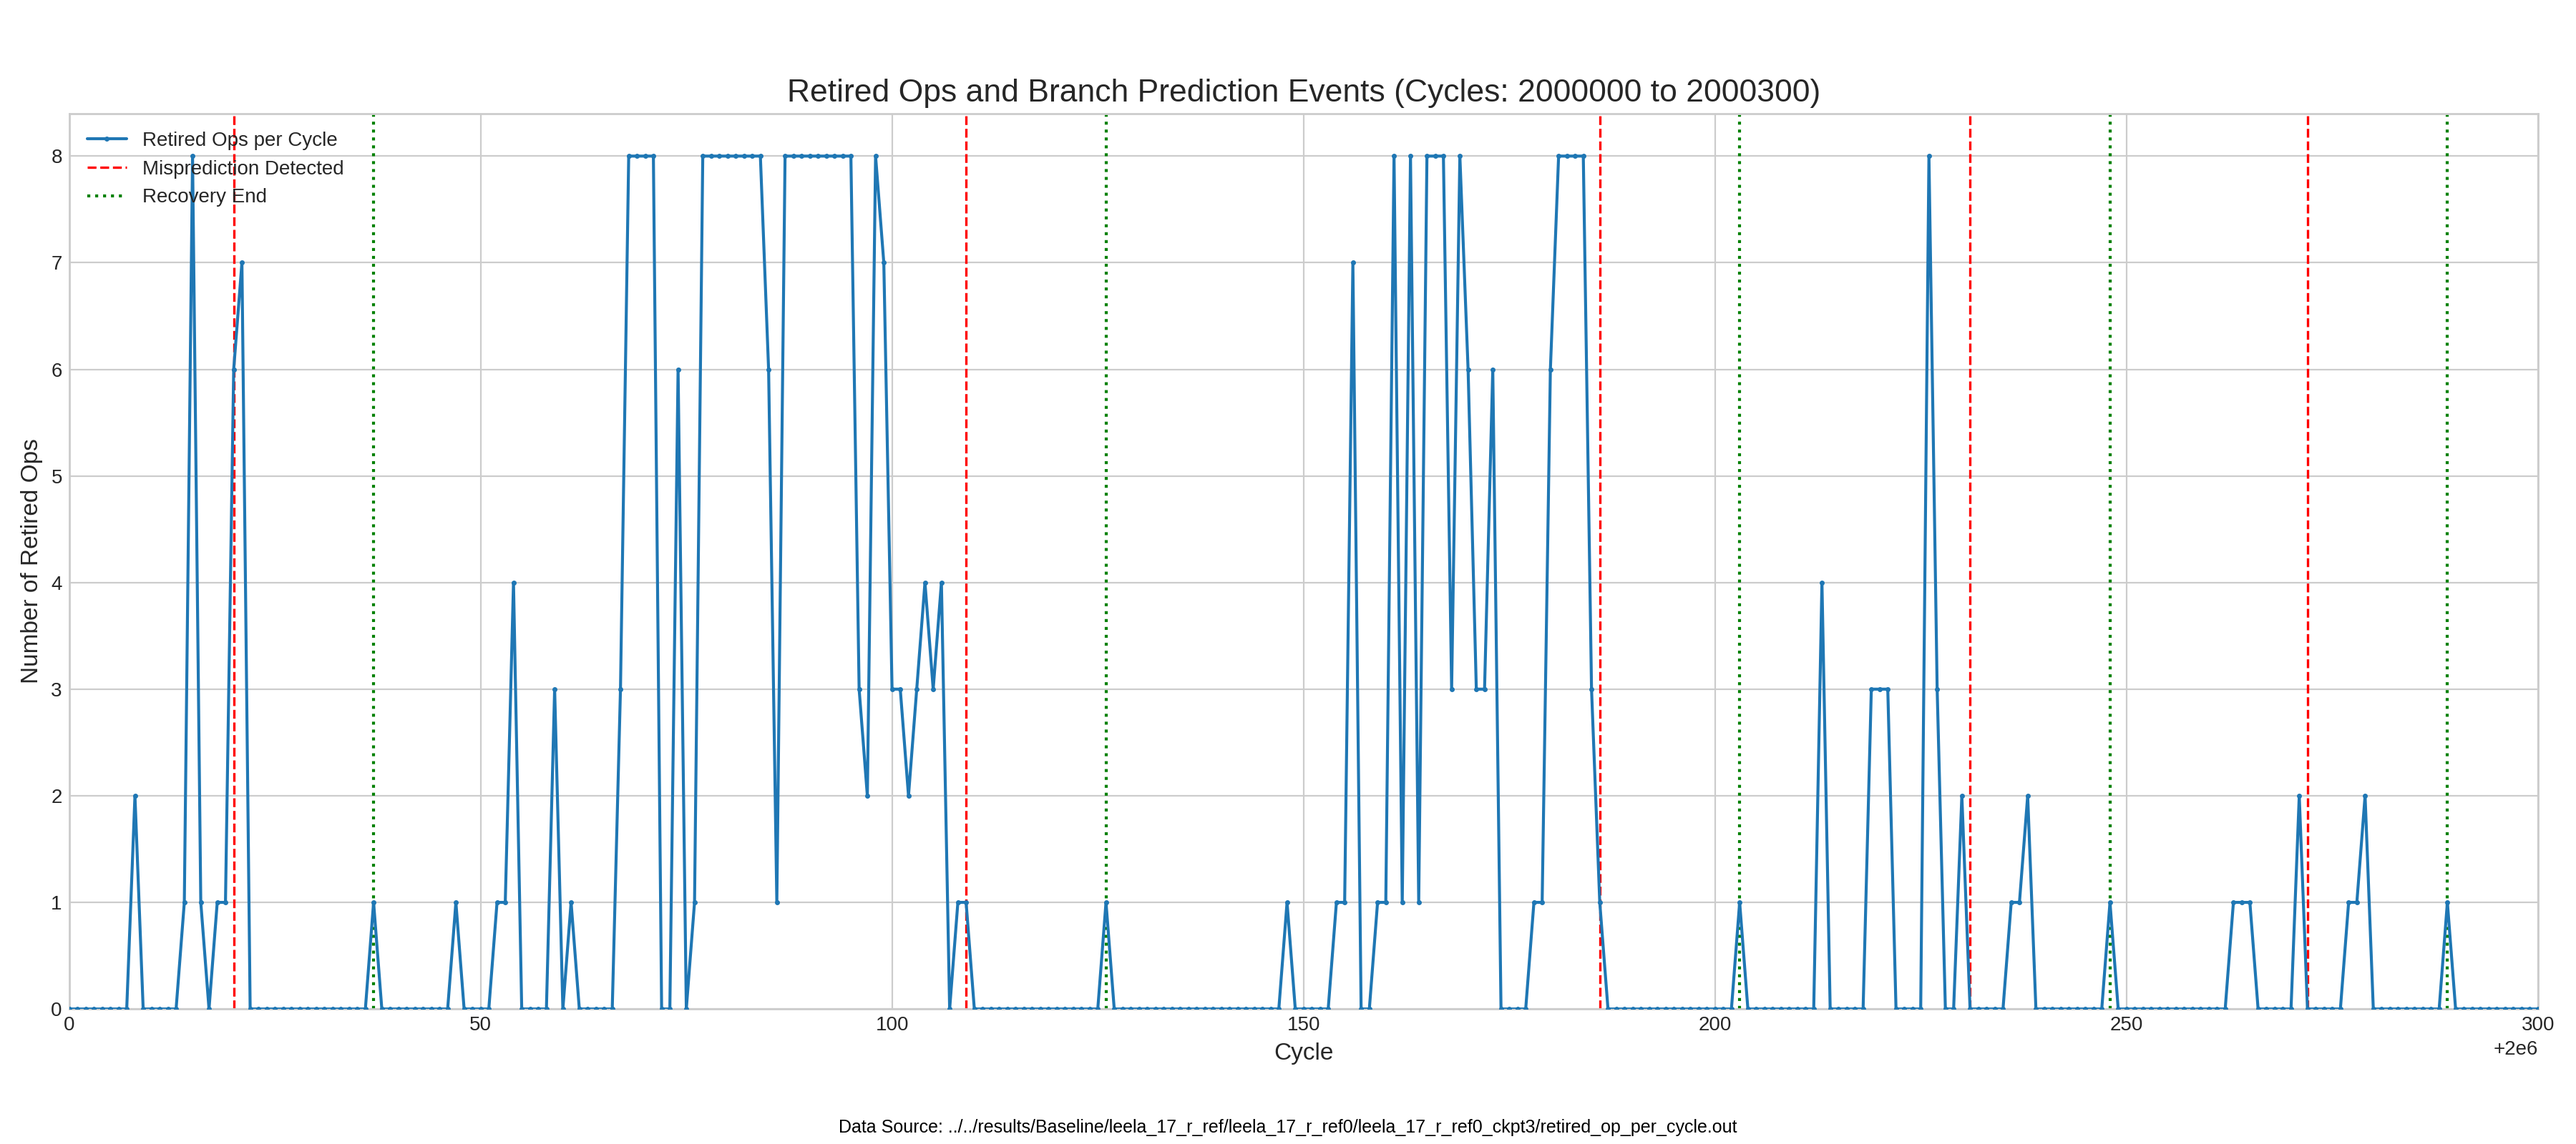
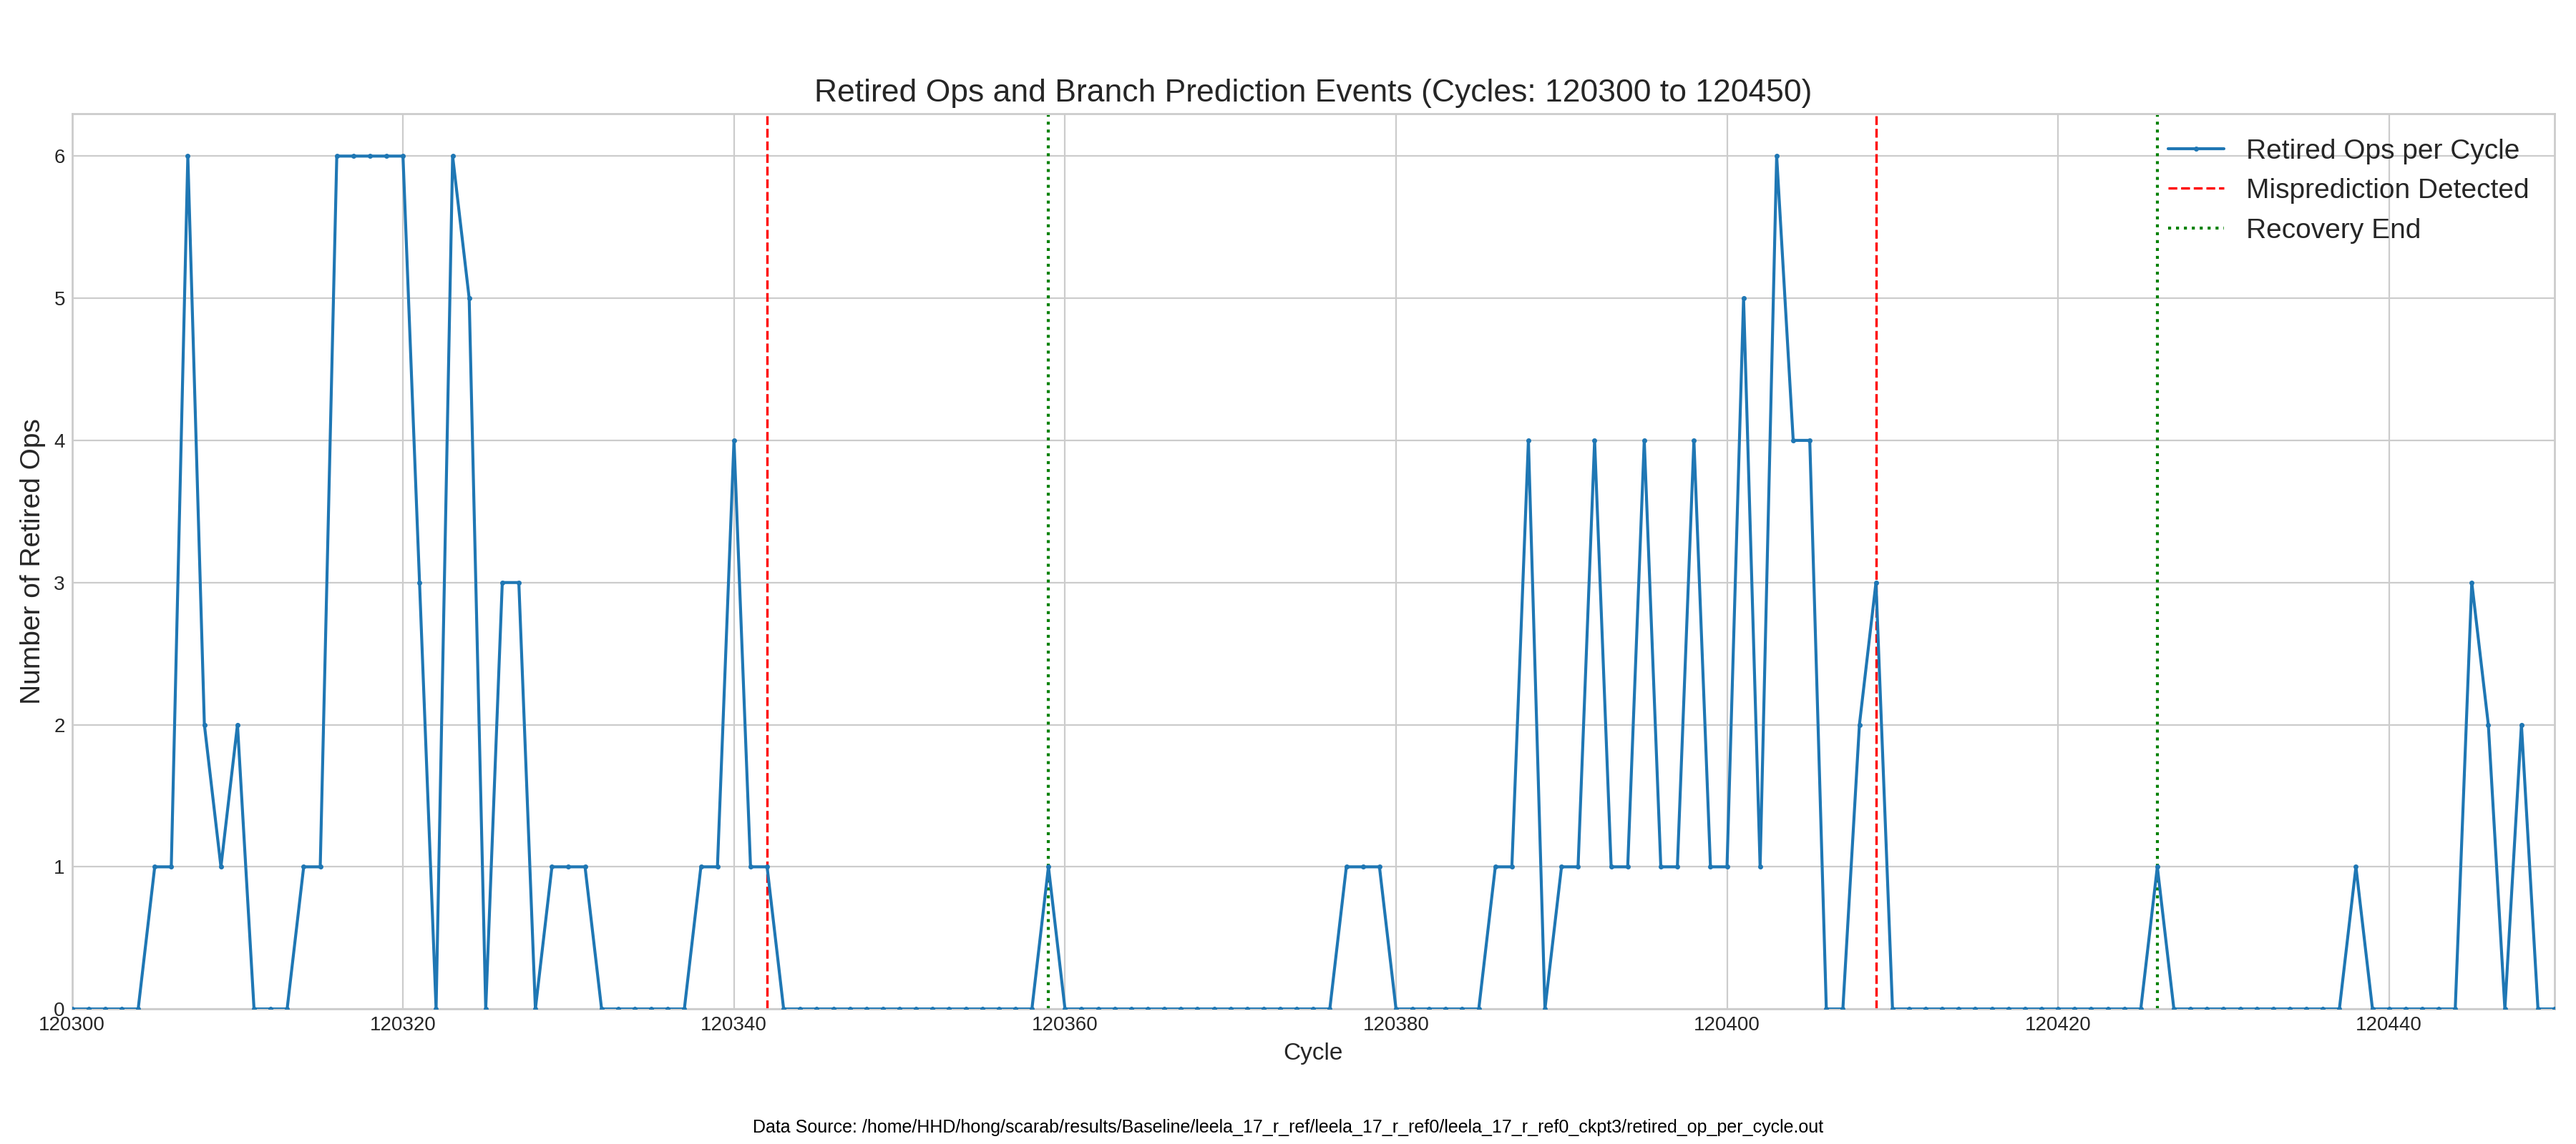
Solve off path PIN target address problem - not solving fundamnetal problem

diff --git a/utils/jpg_generate/test.py b/utils/jpg_generate/test.py
@@ -4,11 +4,11 @@ import re
 # ==================== 설정 변수 ====================
 
 # 1. 분석할 로그 파일의 전체 경로를 지정하세요.
-file_path = '../../results/Baseline/leela_17_r_ref/leela_17_r_ref0/leela_17_r_ref0_ckpt3/retired_op_per_cycle.out'
+file_path = '/home/HHD/hong/scarab/results/Baseline/leela_17_r_ref/leela_17_r_ref0/leela_17_r_ref0_ckpt3/retired_op_per_cycle.out'
 
 # 2. 그래프로 그릴 사이클 시작/종료 구간을 설정하세요.
-start_cycle = 2000000
-end_cycle = 2000300  # 로그 파일 전체를 보려면 더 큰 값으로 설정
+start_cycle = 120300
+end_cycle = 120450  # 로그 파일 전체를 보려면 더 큰 값으로 설정
 
 # ===================================================
 
@@ -84,8 +84,8 @@ for i, c in enumerate(recovery_filtered):
 # 그래프 꾸미기
 plt.title(f'Retired Ops and Branch Prediction Events (Cycles: {start_cycle} to {end_cycle})', fontsize=16)
 plt.xlabel('Cycle', fontsize=12)
-plt.ylabel('Number of Retired Ops', fontsize=12)
-plt.legend(loc='upper left')
+plt.ylabel('Number of Retired Ops', fontsize=14)
+plt.legend(loc='upper right', fontsize=14)
 plt.xlim(start_cycle, end_cycle) # X축 범위 고정
 plt.ylim(bottom=0) # Y축 최솟값 0으로 고정
 

diff --git a/bin/batch_w0_s2.py b/bin/batch_w0_s2.py
@@ -24,7 +24,7 @@ import sys
 from scarab_globals import *
 from scarab_globals.scarab_batch_types import *
 
-import_descriptor(scarab_paths.sim_dir + "/cpt_spec2017_s200_2/descriptor.def")
+import_descriptor(scarab_paths.sim_dir + "/cpt_spec2017_s200_5/descriptor.def")
 
 #SystemConfig.submission_system = command.SubmissionSystems.PBS
 
@@ -33,7 +33,7 @@ baseline_params += "--heartbeat 1000"
 perfect_bp_params="--perfect_bp 1 --perfect_target 1"
 perfect_params = baseline_params + perfect_bp_params
 
-ScarabRun("Baseline", spec17_rate_problem, baseline_params, results_dir="/home/HHD/hong/scarab/results")
-ScarabRun("Perfect",  spec17_rate_problem, perfect_params,  results_dir="/home/HHD/hong/scarab/results")
+ScarabRun("Baseline", gcc_17_r_ref, baseline_params, results_dir="/home/HHD/hong/scarab/results")
+ScarabRun("Perfect",  gcc_17_r_ref, perfect_params,  results_dir="/home/HHD/hong/scarab/results")
 
 BatchManager()

diff --git a/src/bp/bp.c b/src/bp/bp.c
@@ -991,6 +991,12 @@ void bp_target_known_op(Bp_Data* bp_data, Op* op) {
   ASSERT(bp_data->proc_id, bp_data->proc_id == op->proc_id);
   ASSERT(bp_data->proc_id, op->table_info->cf_type);
 
+  // Do not update BTB with invalid target addresses.
+  const Addr MIN_VALID_PC = 0x40;
+  if (op->oracle_info.target < MIN_VALID_PC || op->oracle_info.npc >= 0xffffffffffff) {
+    return;
+  }
+
   // if it was a btb miss, it is time to write it into the btb
   if (op->oracle_info.btb_miss && op->oracle_info.dir == TAKEN) {
     bp_data->bp_btb->update_func(bp_data, op);
